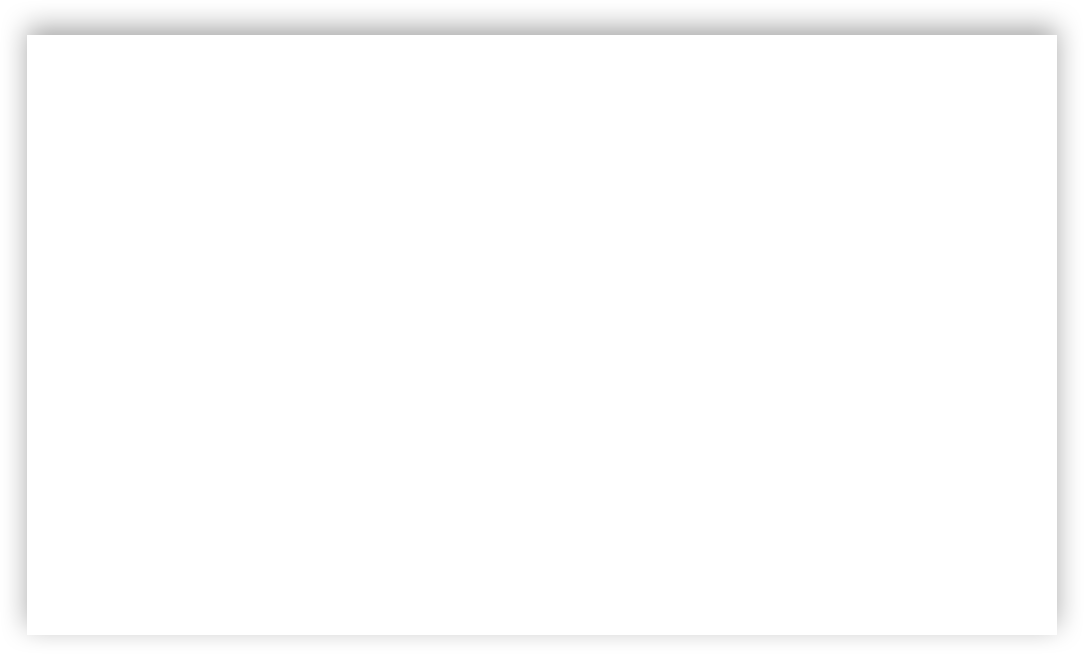
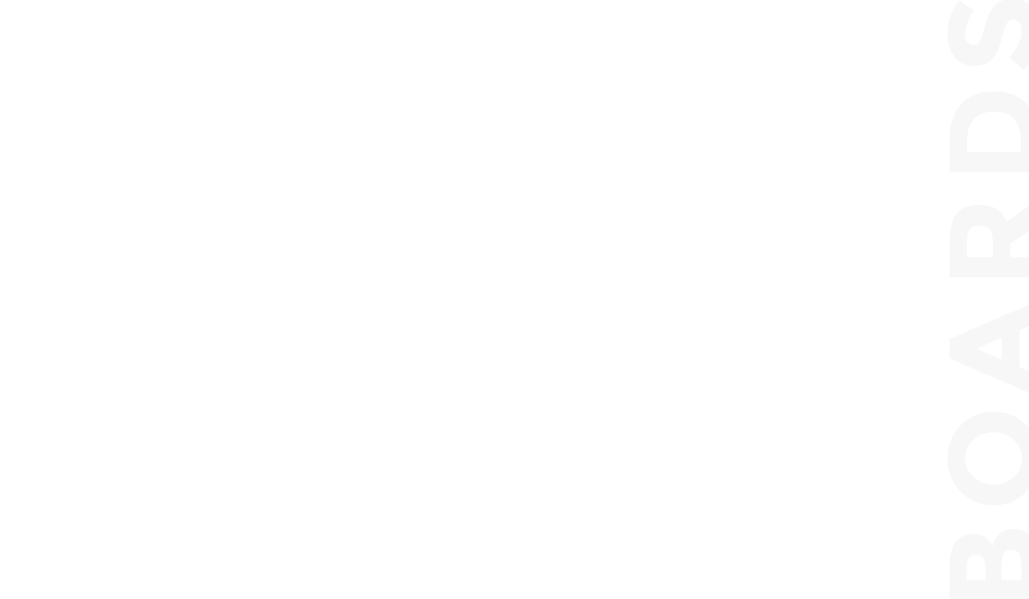
slider, and background image

diff --git a/index.html b/index.html
@@ -69,26 +69,69 @@
                 </div>       
             </div>
           <br>
-          <!--  Header Shouts-->
-          <div id="shouts">
-            <div class="container">
-                <div class="row">
-                    <figure class="text-center">
-                        <blockquote class="blockquote">
-                          <p>Ride every wave as if it's your last</p>
-                        </blockquote>
-                        <figcaption class="quote-footer">
-                            We love the motion of the ocean 
-                        </figcaption>
-                      </figure>
-
-                </div>
-                
-            </div>
-          </div>
+         
            
         </nav>
     </header>
+   
+     <!--  Header Shouts-->
+
+     <div id="shouts">
+        <div class="container">
+            <div class="row">
+                <div class="col-sm-12 ">
+               
+                <figure class="text-center">
+                    <blockquote class="blockquote">
+                      <p>Ride every wave as if it's your last</p>
+                    </blockquote>
+                    <figcaption class="quote-footer">
+                        We love the motion of the ocean 
+                    </figcaption>
+                  </figure>
+                </div>
+            </div>
+            
+        </div>
+      </div>
+    <!-- Slider-->
+    <div id="slider">
+        <div class="container">
+            <div class="position-relative">
+                <div class="position-relative top-0 left-50 translate-middle">
+                    
+                    <div class="shadow-lg p-3 mb-5 bg-white rounded">  
+                        <div  class="carousel slide" data-ride="carousel">
+                        <div class="carousel-inner">
+                          <div class="carousel-item active">
+                            <img src="images/Card.png" class="d-block w-100" alt="...">
+                          </div>
+                          <div class="carousel-item">
+                            <img src="images/Card.png" class="d-block w-100" alt="...">
+                          </div>
+                          <div class="carousel-item">
+                            <img src="images/Card.png" class="d-block w-100" alt="...">
+                          </div>
+                        </div>
+                        <a class="carousel-control-prev" href="#carouselExampleControls" role="button" data-slide="prev">
+                          <span class="carousel-control-prev-icon" aria-hidden="true"></span>
+                          <span class="visually-hidden">Previous</span>
+                        </a>
+                        <a class="carousel-control-next" href="#carouselExampleControls" role="button" data-slide="next">
+                          <span class="carousel-control-next-icon" aria-hidden="true"></span>
+                          <span class="visually-hidden">Next</span>
+                        </a>
+                      </div>
+                    </div>
+
+                  
+                      
+                </div>
+
+            </div>
+
+        </div>
+    </div>
    
 
 <!-- Jquery -->

diff --git a/css/style.css b/css/style.css
@@ -4,15 +4,14 @@
 body{
     margin: 0;
     font-family: 'Montserrat', sans-serif;
-    
+    width: 100%;
     
 }
 /***********Navbar Styles*************/
 #header_area{
     width: 100%;
-    height:700px;
    margin: 0;
-   background-image: url("../images/header.png"); 
+   
 }
 #header_area .container h4{
     font-weight: 400;
@@ -75,10 +74,24 @@ body{
 /*Shouts*/
 
 #shouts{
+    margin-top: -108px;
     font-family: 'Playfair Display', serif; 
-    margin: 45px;  
+    width: 100%;
+    height: 700px;
+    background: url("../images/top.png") no-repeat  center ; 
+        -webkit-background-size: cover;
+        -moz-background-size: cover;
+        -o-background-size: cover;
+        background-size: cover; 
 }
+#shouts .row{
+   
+   padding-top: 185px;
+}
+
+
 #shouts .text-center .blockquote{
+    
     font-size: 50px;
     color:#000000 ;
 }
@@ -94,3 +107,17 @@ body{
 
 
 /************Navbar styles ends*****************/
+
+/***********Slider Style********/
+#slider{
+    margin-top:30px ;
+    
+}
+#slider .container{
+    width: 1030px;
+    height: 600px;
+}
+#slider .container img{
+    width: 1030px;
+    height: 600px;
+}
